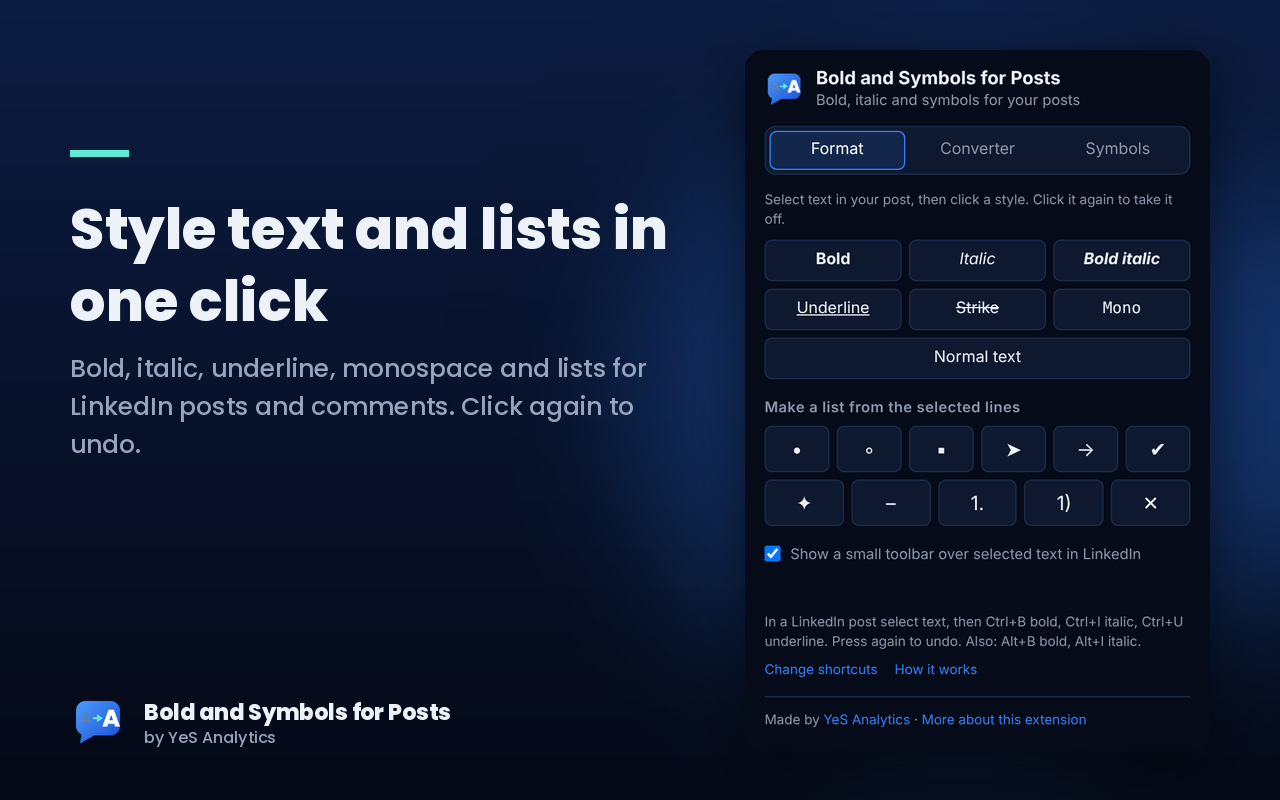
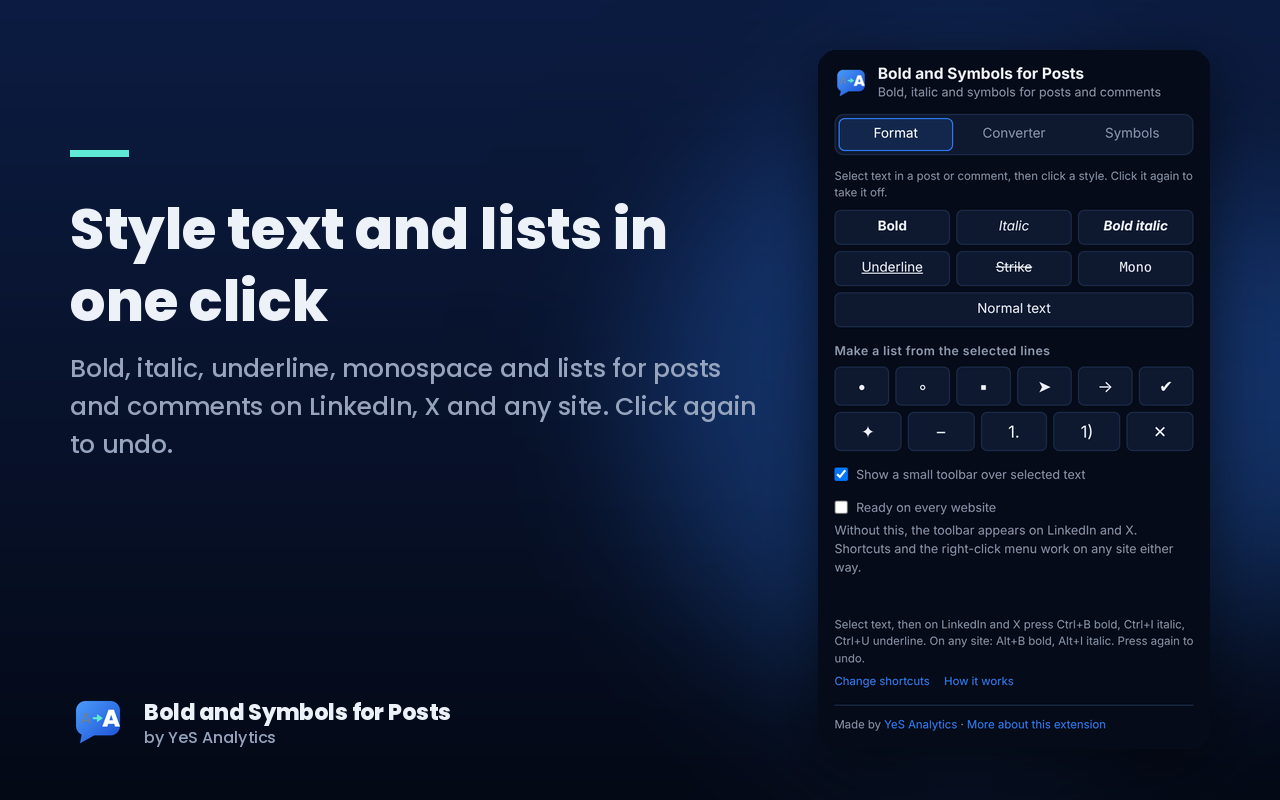
Extension pages: describe use on LinkedIn, X and any site
Claude-Session: https://claude.ai/code/session_01JQqbX4vTY1mHUhThiGKi74

Changed region(s): [[0.0625, 0.0625, 0.9375, 0.9062]]

diff --git a/tools/bold-text-extension/index.html b/tools/bold-text-extension/index.html
@@ -4,11 +4,11 @@
 <meta charset="UTF-8">
 <meta name="viewport" content="width=device-width, initial-scale=1.0">
 <title>Bold and Symbols for Posts: free Chrome extension | YeS Analytics</title>
-<meta name="description" content="Free Chrome extension that adds bold, italic and symbols to your LinkedIn posts. No sign-up, no data collected.">
+<meta name="description" content="Free Chrome extension that adds bold, italic and symbols to your posts and comments on LinkedIn, X and any site. No sign-up, no data collected.">
 <link rel="canonical" href="https://yes-analytics.com/tools/bold-text-extension/">
 <meta property="og:type" content="website">
 <meta property="og:title" content="Bold and Symbols for Posts: free Chrome extension">
-<meta property="og:description" content="Add bold, italic, bullets, arrows and other symbols to your LinkedIn posts. Free, no sign-up, no data collected.">
+<meta property="og:description" content="Add bold, italic, bullets, arrows and other symbols to your posts and comments. Free, no sign-up, no data collected.">
 <meta property="og:url" content="https://yes-analytics.com/tools/bold-text-extension/">
 <meta property="og:image" content="https://yes-analytics.com/tools/bold-text-extension/assets/screenshot-1-text-style.png">
 <meta name="twitter:card" content="summary_large_image">
@@ -107,8 +107,8 @@
   <header class="hero">
     <div>
       <div class="eyebrow">Free Chrome extension</div>
-      <h1>Bold, italic and symbols for your <span class="accent">LinkedIn posts</span></h1>
-      <p class="lead">LinkedIn's post editor has no bold or italic button. This extension adds them for posts and comments, plus underline, strikethrough, bullets, arrows and other symbols. Select text, press a shortcut, done.</p>
+      <h1>Bold, italic and symbols for <span class="accent">posts and comments</span></h1>
+      <p class="lead">Most post boxes on LinkedIn, X and other sites have no bold or italic button. This extension adds them, plus underline, strikethrough, bullets, arrows and other symbols. Select text, press a shortcut, done.</p>
       <div class="cta-row">
         <a id="storeBtn" class="btn btn-primary is-soon" href="#" aria-disabled="true">Coming soon to the Chrome Web Store</a>
         <a class="btn btn-ghost" href="/tools/bold-text.html">Try the web converter</a>
@@ -122,7 +122,7 @@
 
   <section id="features">
     <h2>What it does</h2>
-    <p class="sub">Three small things that make LinkedIn posts easier to write and easier to scan.</p>
+    <p class="sub">Three small things that make posts easier to write and easier to scan.</p>
     <div class="cards">
       <div class="card"><h3>Bold and italic</h3><p>Select text in a post or comment and make it bold, italic, underlined, struck through or monospace. Press the same style again to take it off. Turn selected lines into bulleted or numbered lists.</p></div>
       <div class="card"><h3>Symbols in one click</h3><p>Bullets, arrows, check marks, numbers, dividers and popular emoji. A Recent item in the right-click menu repeats whatever you used last, so repeat jobs take one click.</p></div>
@@ -140,21 +140,21 @@
     <ol class="steps">
       <li>Open the <a id="storeLink">extension page in the Chrome Web Store</a> and click <b>Add to Chrome</b>.</li>
       <li>Pin it so the icon is always visible. Click the puzzle icon in Chrome's toolbar, then the pin next to <b>Bold and Symbols for Posts</b>.</li>
-      <li>Open LinkedIn and write your post. Select some text and press <kbd>Ctrl</kbd> + <kbd>B</kbd> for bold or <kbd>Ctrl</kbd> + <kbd>I</kbd> for italic. On a Mac use <kbd>Cmd</kbd> instead of <kbd>Ctrl</kbd>. Press the same keys again to undo. Or right-click the selection and choose <b>LinkedIn text style</b>.</li>
+      <li>Open LinkedIn, X or any page with a text box and write. Select some text and press <kbd>Ctrl</kbd> + <kbd>B</kbd> for bold or <kbd>Ctrl</kbd> + <kbd>I</kbd> for italic. On a Mac use <kbd>Cmd</kbd> instead of <kbd>Ctrl</kbd>. Press the same keys again to undo. Or right-click the selection and choose <b>Text style</b>. On LinkedIn and X the Ctrl keys work. On every other site use <kbd>Alt</kbd> + <kbd>B</kbd> and <kbd>Alt</kbd> + <kbd>I</kbd>, the right-click menu or the side panel.</li>
       <li>For a bullet, arrow or check mark, right-click in the post and choose <b>Insert symbol</b>, or click the extension icon and open the <b>Symbols</b> tab.</li>
     </ol>
     <p class="sub" style="margin-top:16px">Prefer other keys? <kbd>Alt</kbd> + <kbd>B</kbd> and <kbd>Alt</kbd> + <kbd>I</kbd> work too, and you can change them to anything you like. Open <code>chrome://extensions/shortcuts</code> in Chrome's address bar to set your own.</p>
   </section>
 
   <section id="good-to-know">
-    <div class="note"><strong>Good to know.</strong> Styled text is made of special Unicode characters, not real formatting. Screen readers may read it badly and LinkedIn search may not match it as normal words. Use it sparingly, for example for a headline or a key phrase.</div>
+    <div class="note"><strong>Good to know.</strong> Styled text is made of special Unicode characters, not real formatting. Screen readers may read it badly and search may not match it as normal words. Use it sparingly, for example for a headline or a key phrase.</div>
   </section>
 
   <section id="faq">
     <h2>Questions</h2>
     <details><summary>Is it really free?</summary><p>Yes. There is no sign-up, no ads and no paid tier.</p></details>
-    <details><summary>Does it collect my data?</summary><p>No. It runs only on linkedin.com, works entirely inside your browser and sends nothing anywhere. Read the <a href="privacy.html">privacy policy</a>.</p></details>
-    <details><summary>Where does it work?</summary><p>The extension adds its buttons to LinkedIn posts and comments in desktop Chrome. Chrome on phones does not support extensions, so on mobile use the <a href="/tools/bold-text.html">web converter</a>. The styled text is made of ordinary Unicode characters, so it also shows correctly when pasted into most other apps and sites, such as X, Facebook, Instagram or WhatsApp.</p></details>
+    <details><summary>Does it collect my data?</summary><p>No. It works entirely inside your browser and sends nothing anywhere. It reads only the text you select, and only when you use it. Read the <a href="privacy.html">privacy policy</a>.</p></details>
+    <details><summary>Where does it work?</summary><p>The extension is ready on LinkedIn and X as soon as the page opens, and works on any other site with a shortcut, the right-click menu or the side panel. If you want the small toolbar everywhere, switch on <b>Ready on every website</b> in the side panel. It runs in desktop Chrome. Chrome on phones does not support extensions, so on mobile use the <a href="/tools/bold-text.html">web converter</a>. The styled text is made of ordinary Unicode characters, so it also shows correctly when pasted into most apps and sites, for example Facebook, Instagram or WhatsApp.</p></details>
     <details><summary>Why does some text show as empty boxes?</summary><p>The styled letters are regular Unicode characters. A few fonts or older devices do not include them, so a reader may see boxes instead of letters. This is rare on modern devices.</p></details>
     <details><summary>Who makes it?</summary><p><a href="https://yes-analytics.com/">YeS Analytics</a>. Questions or ideas: <a href="mailto:info@yes-analytics.com">info@yes-analytics.com</a>.</p></details>
   </section>

diff --git a/tools/bold-text-extension/privacy.html b/tools/bold-text-extension/privacy.html
@@ -34,7 +34,7 @@
   <p>The extension does not collect, store, sell or send any personal data. Everything happens locally in your browser.</p>
 
   <h2>What the extension does with your text</h2>
-  <p>When you select text in a LinkedIn post or comment and choose a style, the extension reads that selected text inside the page, converts it to styled Unicode characters, and puts the result back in the same place. When you insert a symbol, it adds the symbol where your cursor is. The text is never transmitted anywhere and is not saved.</p>
+  <p>When you select text in a post or comment on a web page and choose a style, the extension reads that selected text inside the page you are using, converts it to styled Unicode characters, and puts the result back in the same place. When you insert a symbol, it adds the symbol where your cursor is. The text is never transmitted anywhere and is not saved.</p>
 
   <h2>What the extension remembers on your device</h2>
   <p>To save you time, the extension keeps a few small things in your browser's local extension storage: the last symbols, styles and lists you used (for the Recent menu), whether the small toolbar is switched on, and the text you typed in the converter, so it is still there if you close the window by accident. This stays on your device. It is never sent anywhere, and removing the extension deletes it.</p>
@@ -49,11 +49,12 @@
 
   <h2>Why the extension needs its permissions</h2>
   <ul>
-    <li><b>Access to linkedin.com:</b> so it can replace the selected text in the post and comment editors. The extension runs only on LinkedIn and has no access to any other website.</li>
+    <li><b>Access to LinkedIn and X (linkedin.com, x.com, twitter.com):</b> so it can replace the selected text in post and comment editors there as soon as the page opens.</li>
+    <li><b>Optional access to all websites:</b> off by default. If you switch on &ldquo;Ready on every website&rdquo; in the side panel, your browser asks for permission and the extension can then work on any site without a click first. You can switch it off at any time, and the permission is removed. Even then the extension only reads the text you select, only when you use it, and sends nothing anywhere.</li>
     <li><b>Context menus:</b> to add the right-click items for text style and symbols.</li>
     <li><b>Storage:</b> to remember the items listed above on your device.</li>
     <li><b>Side panel:</b> to show the same controls in a panel that stays open next to the page.</li>
-    <li><b>Active tab and scripting:</b> to connect to a LinkedIn tab that was already open when the extension was installed or updated, so you do not need to reload the page.</li>
+    <li><b>Active tab and scripting:</b> when you press a shortcut, use the right-click menu or the side panel on a site that is not listed above, your browser lets the extension work on that one tab for the moment, and the extension adds its small script to it. It also connects to LinkedIn and X tabs that were already open when the extension was installed or updated, so you do not need to reload them.</li>
   </ul>
 
   <h2>Third parties</h2>

diff --git a/tools/bold-text.html b/tools/bold-text.html
@@ -173,10 +173,10 @@
 
   <section class="ext" id="extension">
     <div>
-      <h2>Do this right inside LinkedIn</h2>
-      <p class="sub" style="margin-bottom:0">Skip the copy and paste. The free Chrome extension adds these buttons to your LinkedIn post and comment boxes.</p>
+      <h2>Do this right where you write</h2>
+      <p class="sub" style="margin-bottom:0">Skip the copy and paste. The free Chrome extension adds these buttons to post and comment boxes on LinkedIn, X and any other site.</p>
       <ul>
-        <li>Select text in your post, press <kbd>Ctrl</kbd>+<kbd>B</kbd> and it is <strong>bold</strong>. Press again to undo.</li>
+        <li>Select text in your post, then press <kbd>Ctrl</kbd>+<kbd>B</kbd> and it is <strong>bold</strong>. Press again to undo.</li>
         <li>A small toolbar appears over selected text</li>
         <li>Lists, bullets and arrows from the right-click menu, with your most recent ones on top</li>
         <li>Free, no sign-up, collects no data</li>
